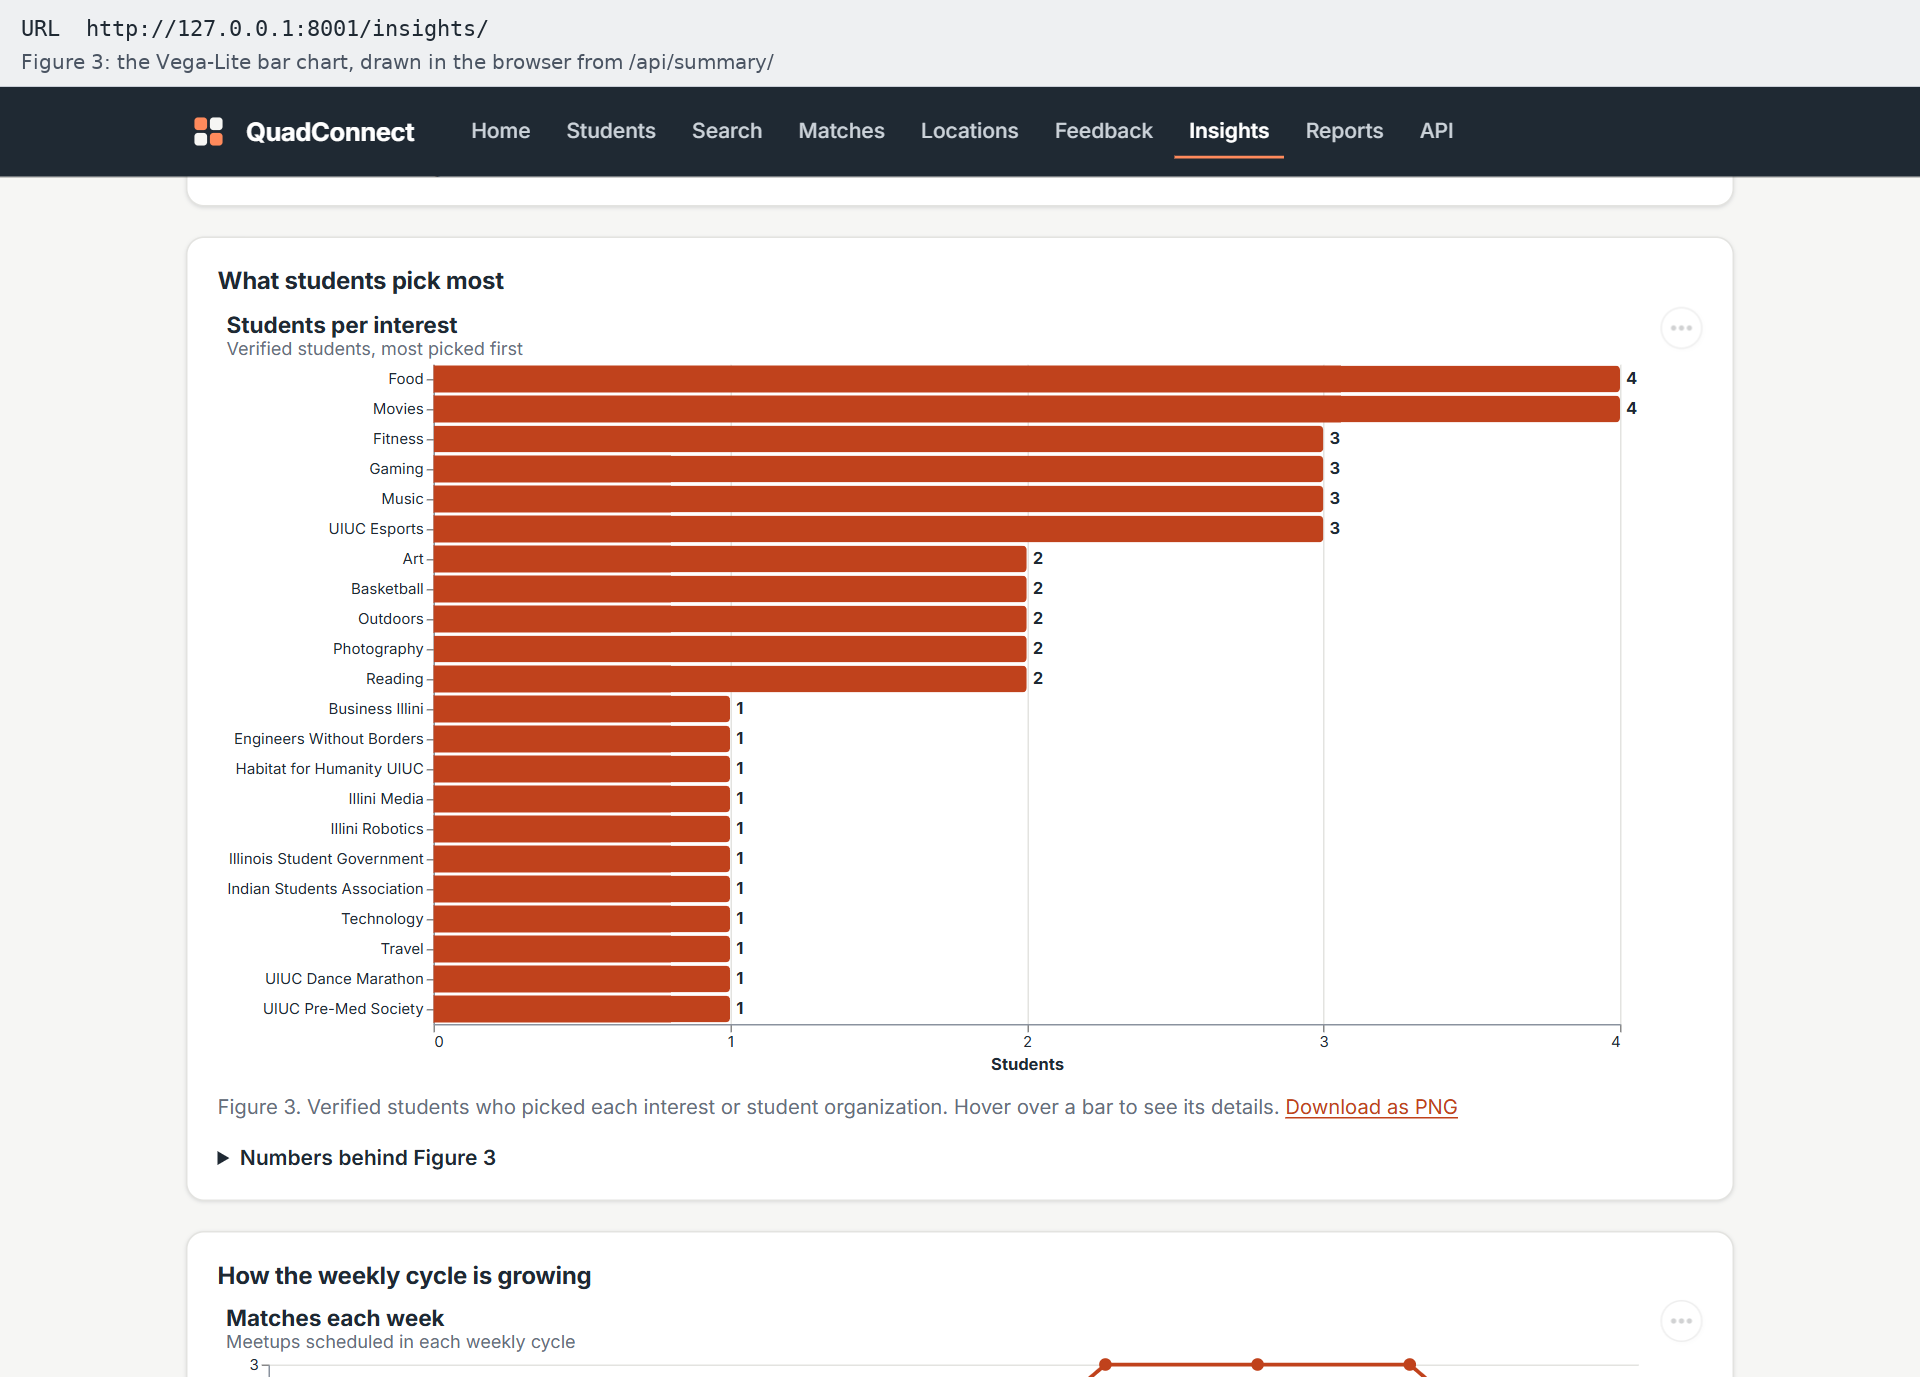
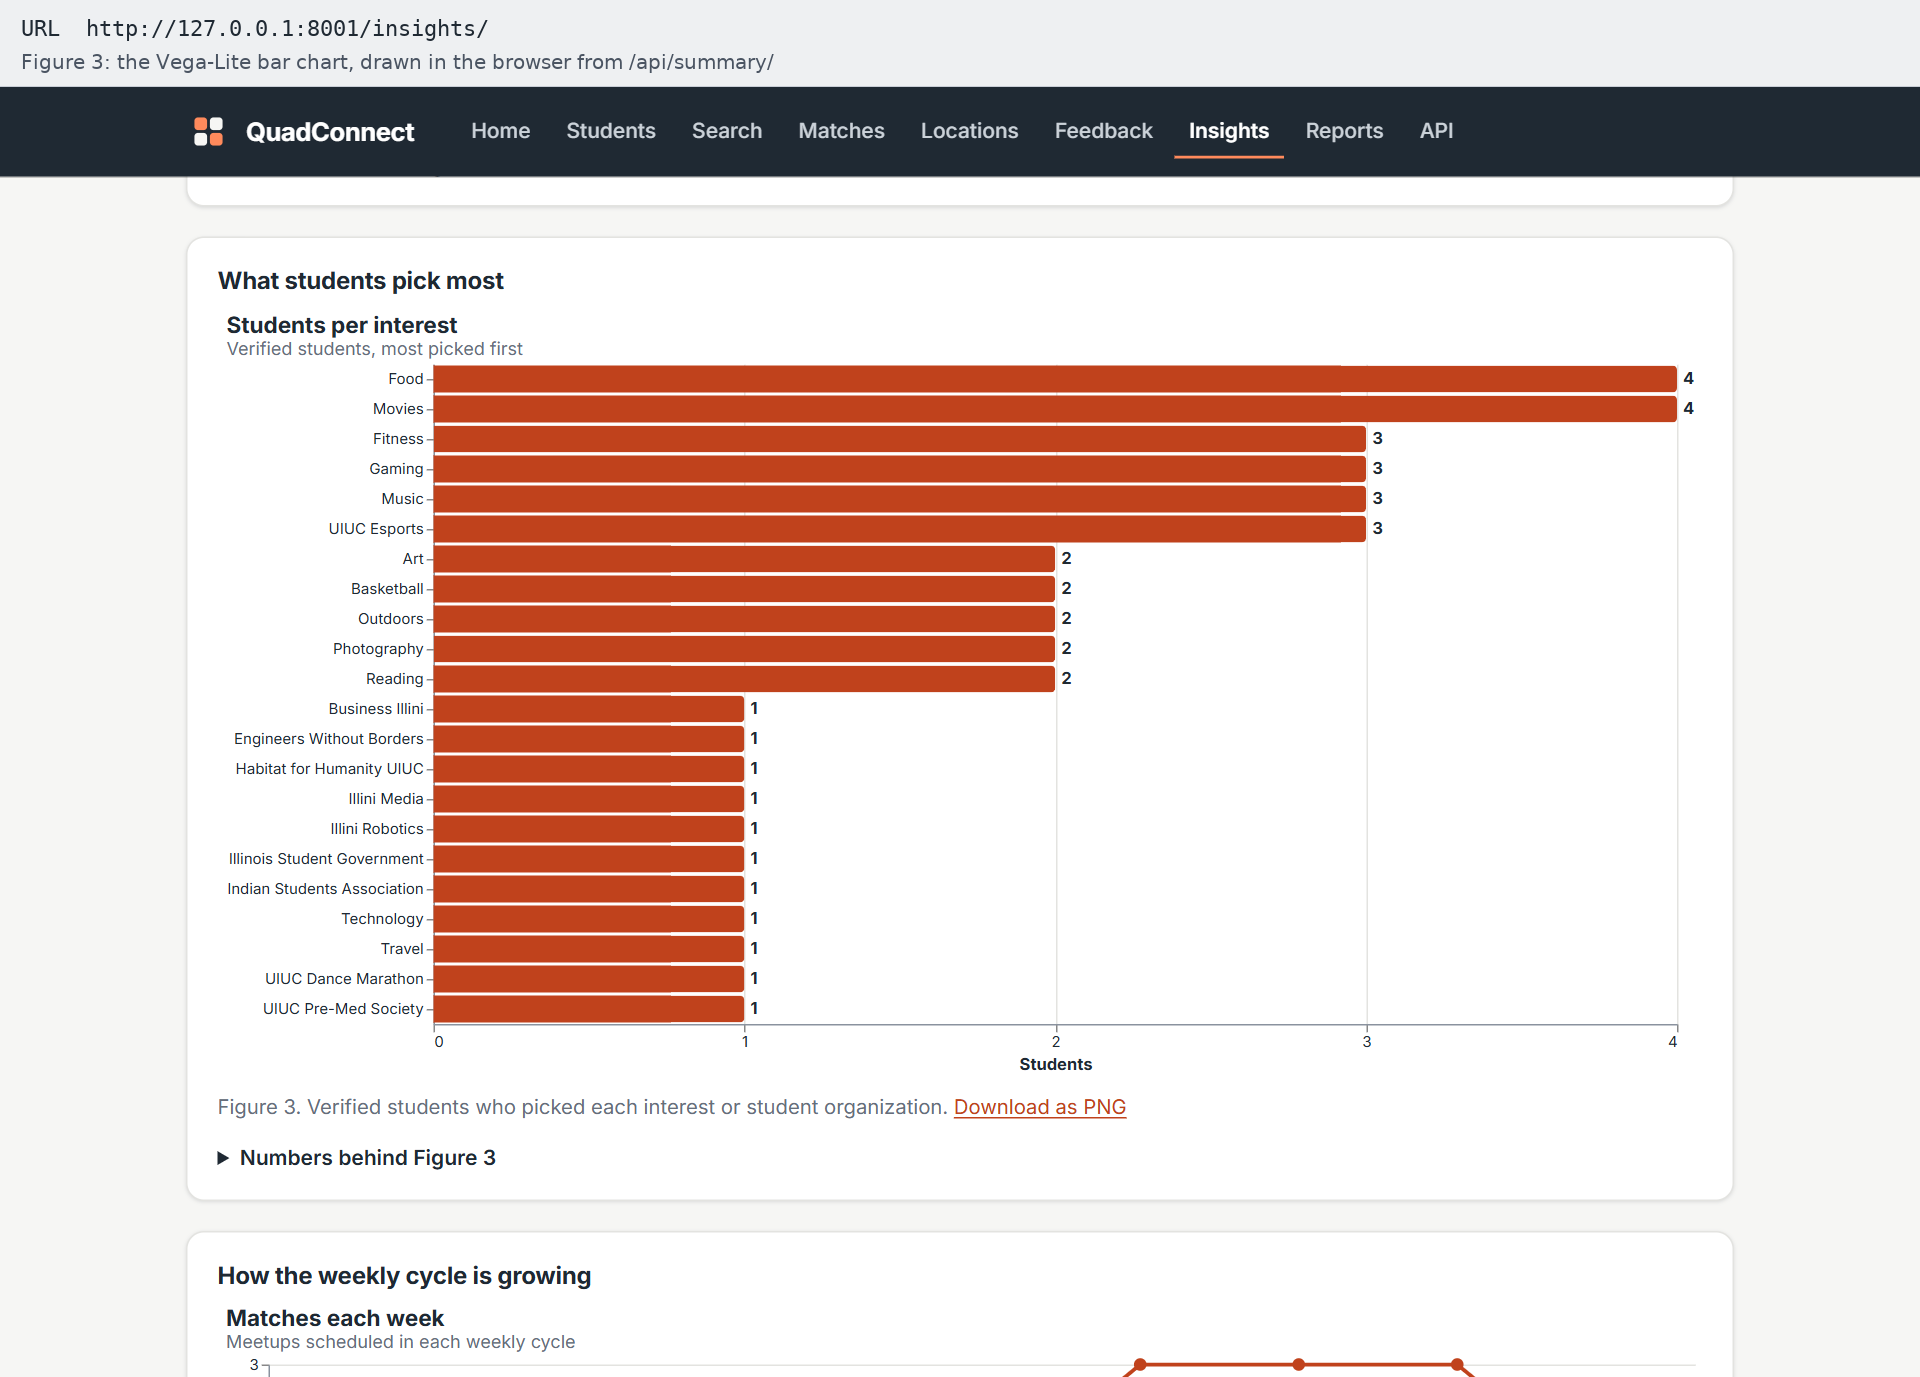
docs: record the review fixes and how to submit the specs
README: the menu and tooltips are off and why, the image cache and the
5-second reuse of trivia questions, the CSV's byte order mark, why
DJANGO_SECURE_SSL=1 matters for the charts behind HTTPS, the extra CI
check, the test count (87), and a note that the copy of a spec to submit
is the one served by the deployed site, whose data.url is absolute.

notes.txt and project_reference.md: the review and what it fixed.
Screenshots 01, 02, 14 and 17 retaken: no chart menu or tooltip, and the
new wording of the busy message.

diff --git a/README.md b/README.md
@@ -48,7 +48,7 @@ python manage.py runserver
 ```
 
 Open <http://127.0.0.1:8000/>. Run the test suite with
-`python manage.py test connect` (83 tests).
+`python manage.py test connect` (87 tests).
 
 The first command after installing pauses for a while (up to a minute on
 Windows) while Matplotlib builds its font cache. That happens once.
@@ -89,7 +89,7 @@ chart-ready JSON built from the models:
 
 | Endpoint | Returns |
 |---|---|
-| `GET /api/summary/` | students per interest, most picked first: `[{"category": "Food", "count": 4, "type": "Hobby / Interest"}, ...]` |
+| `GET /api/summary/` | verified students per interest, most picked first (a name used in two categories, like Food, gets its type added): `[{"category": "Food", "count": 4, "type": "Hobby / Interest"}, ...]` |
 | `GET /api/summary/matches-per-week/` | matches in each weekly cycle, oldest first: `{"records": [{"date": "2026-07-13", "count": 1, "participants": 2}, ...]}`; a week with no matches is listed with 0 |
 
 Every JSON endpoint sends `Access-Control-Allow-Origin: *`, so the Vega-Lite
@@ -107,25 +107,34 @@ inline data. Both run in the Vega-Lite editor against the local server
   draws them in the browser from self-hosted copies of Vega 6.4, Vega-Lite 6.4
   and vega-embed 7.3 ([`static/vendor/vega/`](static/vendor/vega/)). Each has
   a caption, alt text and a table of the same numbers. Without JavaScript the
-  server-drawn image shows instead.
+  server-drawn image shows instead. vega-embed's `...` menu and hover
+  tooltips are switched off: the menu's downloads work only with a mouse,
+  and the tooltips cannot be dismissed (WCAG 2.1.1 and 1.4.13). The PNG/JPG
+  link and the table under each chart give everyone the same.
 - **As images:** `/vega-lite/chart1.png` and `/vega-lite/chart2.jpg` (either
   chart works in either format) draw the same spec on the server with
   vl-convert ([`connect/vega_charts.py`](connect/vega_charts.py)). The view
   hands vl-convert the API's rows instead of letting it fetch `data.url`: a
   server that requests its own URL while answering can stall on a host with
-  one worker.
+  one worker. A render takes about a second, so each image is cached for a
+  minute.
 - **The spec:** `/vega-lite/chart1.vl.json` serves the spec with `data.url`
   made absolute for whichever host serves it, so it opens in the editor as it
   is, locally now and from the deployed site later.
 
-To open a chart in the editor, use **Open in Vega Editor** in the chart's `...`
-menu on the Insights page, or paste the JSON from `/vega-lite/chart1.vl.json`
+To open a chart in the editor, paste the JSON from `/vega-lite/chart1.vl.json`
 into <https://vega.github.io/editor/>. Chrome may ask before a public page
 reads from `127.0.0.1` ("local network access"); allow it, or use the
 deployed site.
 
+The files in `connect/specs/` use a relative `data.url`, so one spec works on
+every host. Pasted into the editor as they are, they would look for the data
+on vega.github.io. To submit or share a spec, download it from
+`/vega-lite/chart1.vl.json` (or `chart2.vl.json`) on the deployed site: that
+copy carries the deployed API's full address.
+
 Screenshots: [01](docs/screenshots/p1-a4/01_vega_bar_chart.png) bar chart on the site,
-[02](docs/screenshots/p1-a4/02_vega_line_chart.png) line chart with a tooltip,
+[02](docs/screenshots/p1-a4/02_vega_line_chart.png) line chart,
 [03](docs/screenshots/p1-a4/03_chart1_png.png) `chart1.png`, [04](docs/screenshots/p1-a4/04_chart2_jpg.png) `chart2.jpg`,
 [05](docs/screenshots/p1-a4/05_chart1_spec.png) the served spec,
 [06](docs/screenshots/p1-a4/06_vega_editor_bar.png) and [07](docs/screenshots/p1-a4/07_vega_editor_line.png) both specs
@@ -155,7 +164,9 @@ linked from every match page. Code:
 
 The response puts both sides together: the member counts per interest, the
 topic they picked and why, and the questions. Nothing from Open Trivia DB is
-stored, and members appear only as counts.
+saved: a topic's questions stay in memory for 5 seconds, Open Trivia DB's own
+limit, so a quick reload reuses them instead of being turned away. Members
+appear only as counts.
 
 | Situation | Status |
 |---|---|
@@ -181,7 +192,8 @@ Code: [`connect/reports.py`](connect/reports.py).
   `students_YYYY-MM-DD_HH-MM.csv` in local time. A header row, then one row
   per student profile ordered by name: NetID, name, college, department,
   matching preferences, interests, number of matches, verified, and sign-up
-  date. The email address is left out. A cell that starts like a formula
+  date. The email address is left out. The file starts with a UTF-8 byte
+  order mark, so Excel shows accented names correctly. A cell that starts like a formula
   (`=`, `+`, `-`, `@`) gets a leading apostrophe, so a spreadsheet shows it as
   text instead of running it.
 - **`/export/students.json`:** the same rows as
@@ -399,7 +411,10 @@ needs:
 3. Environment variables, in `.env` or the host's settings:
    `DJANGO_SECRET_KEY` (a new one), `DJANGO_SETTINGS_MODULE=quadconnect.settings.production`,
    `DJANGO_ALLOWED_HOSTS=<the site's domain>`, and `DJANGO_SECURE_SSL=1` once
-   the site is served over HTTPS.
+   the site is served over HTTPS. That flag also makes Django trust the host's
+   `X-Forwarded-Proto` header. Without it, Django thinks requests arrive over
+   `http`, so the chart specs would send an HTTPS page to `http://` data,
+   which browsers block.
 4. `python manage.py collectstatic --noinput`, then
    `python manage.py check --deploy`.
 5. The WSGI application `quadconnect.wsgi:application`, which defaults to the
@@ -437,8 +452,8 @@ runs, in order:
 2. `ruff check .` (rules in [`ruff.toml`](ruff.toml))
 3. `manage.py check`, and `makemigrations --check` (no model change without a migration)
 4. checks on the committed `db.sqlite3`: fully migrated, and seed data only
-   (no login sessions, no admin history, no unapproved venues, and the
-   `tester` login works)
+   (no login sessions, no admin history, no unapproved venues, no password
+   other than the two course accounts', and the `tester` login works)
 5. `verify_constraints`, then the test suite (`manage.py test connect`)
 6. `check --deploy` and `collectstatic` with production settings
 7. a smoke test that boots the production build and checks the status and
@@ -549,7 +564,7 @@ with `{% url 'connect:match-list' %}` rather than hard-coding paths.
     ├── icebreakers.py            Open Trivia DB questions for a match
     ├── reports.py                reports page, CSV and JSON exports
     ├── tests.py                  45 tests, one class per P1-A3 section
-    ├── tests_a4.py               38 tests, one class per P1-A4 part
+    ├── tests_a4.py               42 tests, one class per P1-A4 part
     ├── urls.py                   all routes named
     ├── admin.py                  all 8 models registered, with inlines
     ├── templates/connect/        base.html, shared entity_list.html, pages

diff --git a/docs/project_reference.md b/docs/project_reference.md
@@ -237,7 +237,7 @@ the same models as a foundation.
     ├── icebreakers.py             (A4) Open Trivia DB questions for a match
     ├── reports.py                 (A4) /reports/ and the CSV/JSON exports
     ├── tests.py                   (A3) 45 tests, one class per A3 section
-    ├── tests_a4.py                (A4) 38 tests, one class per A4 part
+    ├── tests_a4.py                (A4) 42 tests, one class per A4 part
     ├── urls.py                    every route named, namespace "connect"
     ├── admin.py                   all 8 registered, with inlines
     ├── migrations/0001_initial.py
@@ -609,13 +609,23 @@ since a single-worker host would deadlock on a request to itself. A trivia
 topic needs at least two members behind it; otherwise it is General
 Knowledge. The exports leave out the email.
 
-**Gotchas for the next person:** §11 traps 20–22.
+**Gotchas for the next person:** §11 traps 20–22, and trap 7 again: the
+match list and the home page annotated a `Count` with no `order_by()`. It
+went unseen while ids matched date order; the seeded history broke that.
 
-**Verified:** 83 tests; ruff clean; `check --deploy` 0 issues; the whole CI
+**Audit:** three independent reviews (Django, security, WCAG 2.1 AA) before
+the push. Fixed: the match order above; vega-embed's menu and hover tooltips
+switched off (mouse-only downloads, tooltips that cannot be dismissed);
+scrolling tables made focusable regions; card grids fit 320 px;
+`/api/summary/` counts verified students and splits same-named interests;
+chart images cached a minute, trivia reused 5 s; a BOM on the CSV; CI
+rejects extra password hashes in the committed database.
+
+**Verified:** 87 tests; ruff clean; `check --deploy` 0 issues; the whole CI
 job on a clean checkout, including a production smoke test of 32 URLs; both
 specs run in the Vega-Lite editor against the local API; the Insights page
-logs nothing to the console; the chart menu has an accessible name; every
-page fits a 390 px phone screen.
+logs nothing to the console; every page fits 320 px without sideways
+scrolling.
 
 ### `main` — P1-A3 merged · 2026-09-28 · PR #6
 **Merged:** `feature/p1-a3` into `main` through PR #6, merged by Kritika

diff --git a/docs/screenshots/README.md b/docs/screenshots/README.md
@@ -60,7 +60,7 @@ first lines.
 | File | Part | Shows |
 |---|---|---|
 | `01_vega_bar_chart.png` | 1.2 | Vega-Lite bar chart on the Insights page, data from `/api/summary/` |
-| `02_vega_line_chart.png` | 1.2 | Vega-Lite line chart, with the tooltip of one week |
+| `02_vega_line_chart.png` | 1.2 | Vega-Lite line chart, data from `/api/summary/matches-per-week/` |
 | `03_chart1_png.png` | 1.2 | `/vega-lite/chart1.png`, drawn on the server |
 | `04_chart2_jpg.png` | 1.2 | `/vega-lite/chart2.jpg`, drawn on the server |
 | `05_chart1_spec.png` | 1.2 | The spec as served: `data.url`, no inline data |
